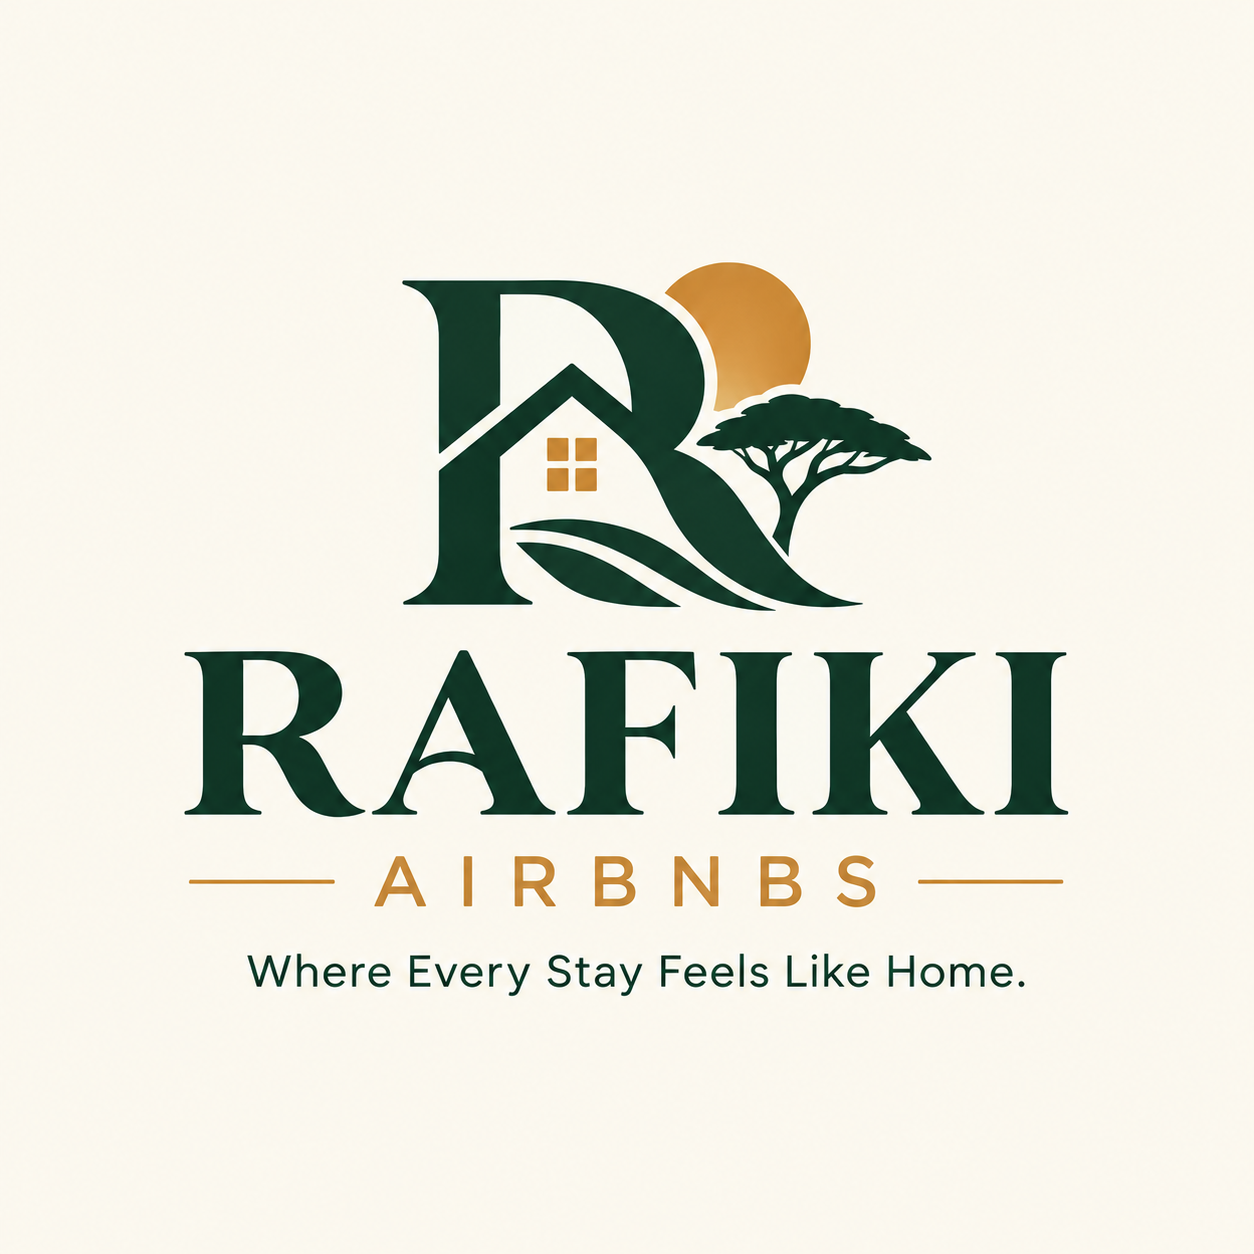
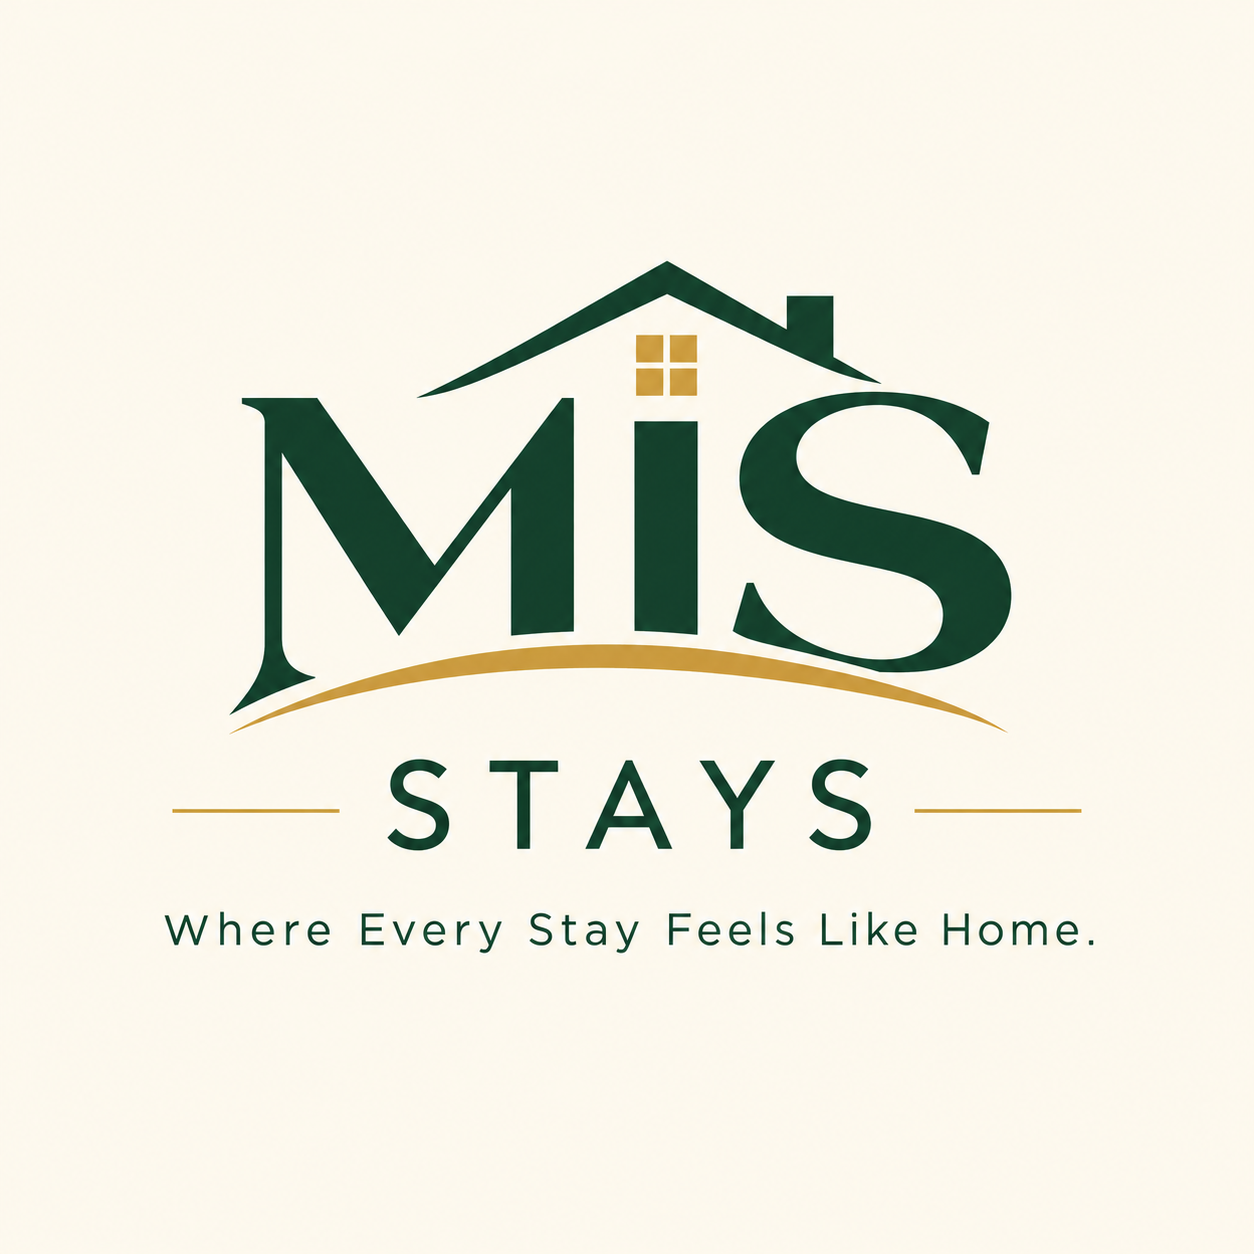
mis

Changed region(s): [[0.1244, 0.1866, 0.8708, 0.8086]]

diff --git a/index.html b/index.html
@@ -5,19 +5,19 @@
     <meta name="viewport" content="width=device-width, initial-scale=1.0" />
     <link rel="icon" href="/brand-assets/favicon.ico" sizes="any" />
     <link rel="apple-touch-icon" href="/brand-assets/apple-touch-icon.png" />
-    <title>Rafiki Airbnbs | Where Every Stay Feels Like Home</title>
-    <meta name="description" content="Discover beautifully curated short-stay homes in Kenya with Rafiki Airbnbs. Handpicked boutique residences in Nairobi for tourists, expats, and business travelers." />
-    <meta property="og:title" content="Rafiki Airbnbs | Where Every Stay Feels Like Home" />
-    <meta property="og:description" content="Discover beautifully curated short-stay homes in Kenya with Rafiki Airbnbs." />
-    <meta property="og:site_name" content="Rafiki Airbnbs" />
+    <title>MIS Stays | Where Every Stay Feels Like Home</title>
+    <meta name="description" content="Discover beautifully curated short-stay homes in Kenya with MIS Stays. Handpicked boutique residences in Nairobi for tourists, expats, and business travelers." />
+    <meta property="og:title" content="MIS Stays | Where Every Stay Feels Like Home" />
+    <meta property="og:description" content="Discover beautifully curated short-stay homes in Kenya with MIS Stays." />
+    <meta property="og:site_name" content="MIS Stays" />
     <meta property="og:type" content="website" />
     <meta property="og:image" content="/brand-assets/og-image.png" />
     <meta property="og:image:width" content="1200" />
     <meta property="og:image:height" content="630" />
-    <meta property="og:image:alt" content="Rafiki Airbnbs stays in Kenya" />
+    <meta property="og:image:alt" content="MIS Stays homes in Kenya" />
     <meta name="twitter:card" content="summary_large_image" />
-    <meta name="twitter:title" content="Rafiki Airbnbs | Where Every Stay Feels Like Home" />
-    <meta name="twitter:description" content="Discover beautifully curated short-stay homes in Kenya with Rafiki Airbnbs." />
+    <meta name="twitter:title" content="MIS Stays | Where Every Stay Feels Like Home" />
+    <meta name="twitter:description" content="Discover beautifully curated short-stay homes in Kenya with MIS Stays." />
     <meta name="twitter:image" content="/brand-assets/og-image.png" />
     <link rel="preconnect" href="https://fonts.googleapis.com" />
     <link rel="preconnect" href="https://fonts.gstatic.com" crossorigin />
@@ -26,8 +26,8 @@
       {
         "@context": "https://schema.org",
         "@type": "LodgingBusiness",
-        "name": "Rafiki Airbnbs",
-        "description": "Discover beautifully curated short-stay homes in Kenya with Rafiki Airbnbs.",
+        "name": "MIS Stays",
+        "description": "Discover beautifully curated short-stay homes in Kenya with MIS Stays.",
         "slogan": "Where Every Stay Feels Like Home.",
         "address": {
           "@type": "PostalAddress",

diff --git a/src/pages/BookingConfirmationPage.tsx b/src/pages/BookingConfirmationPage.tsx
@@ -130,7 +130,7 @@ export const BookingConfirmationPage: React.FC<{ bookingIdOrRef: string }> = ({
     confirmed: {
       title: 'Booking Confirmed',
       subtitle:
-        'Your stay with Rafiki Airbnbs is confirmed and your dates are reserved exclusively for you.',
+        'Your stay with MIS Stays is confirmed and your dates are reserved exclusively for you.',
       tone: 'text-[#15803D]',
       Icon: CheckCircle2,
     },
@@ -143,7 +143,7 @@ export const BookingConfirmationPage: React.FC<{ bookingIdOrRef: string }> = ({
     },
     completed: {
       title: 'Stay Completed',
-      subtitle: 'Thank you for staying with Rafiki Airbnbs. Karibu tena!',
+      subtitle: 'Thank you for staying with MIS Stays. Karibu tena!',
       tone: 'text-[#2C4C3E]',
       Icon: CheckCircle2,
     },
@@ -183,7 +183,7 @@ export const BookingConfirmationPage: React.FC<{ bookingIdOrRef: string }> = ({
           </p>
           <div className="flex flex-wrap justify-center gap-3 pt-2">
             <WhatsAppButton label="Chat on WhatsApp" variant="primary" />
-            <PhoneCallButton label="Call Rafiki Airbnbs" variant="outline" />
+            <PhoneCallButton label="Call MIS Stays" variant="outline" />
           </div>
         </div>
       ) : (
@@ -191,7 +191,7 @@ export const BookingConfirmationPage: React.FC<{ bookingIdOrRef: string }> = ({
           {searchParams.get('emailNotificationFailed') === '1' && (
             <div className="m-6 sm:m-8 mb-0 rounded-lg border border-[#B45309]/30 bg-[#FFFBEB] p-4 text-sm text-[#92400E]">
               Your booking was saved, but we could not send the confirmation emails. Save the
-              reference shown below and contact Rafiki Airbnbs if you need help.
+              reference shown below and contact MIS Stays if you need help.
             </div>
           )}
           <div className="bg-[#F2EFE9] border-b border-[#1A1D1B]/10 p-6 sm:p-8 space-y-3">
@@ -272,7 +272,7 @@ export const BookingConfirmationPage: React.FC<{ bookingIdOrRef: string }> = ({
                   )}
                 />
                 <PhoneCallButton
-                  label="Call Rafiki Airbnbs"
+                  label="Call MIS Stays"
                   showNumber
                   variant="outline"
                   size="lg"

diff --git a/src/context/RafikiContext.tsx b/src/context/RafikiContext.tsx
@@ -91,29 +91,29 @@ export const RafikiProvider: React.FC<{ children: React.ReactNode }> = ({ childr
 
   useEffect(() => {
     const path = locationState.pathname;
-    let pageTitle = 'Rafiki Airbnbs | Where Every Stay Feels Like Home';
-    let pageDescription = 'Discover beautifully curated short-stay homes in Kenya with Rafiki Airbnbs.';
+    let pageTitle = 'MIS Stays | Where Every Stay Feels Like Home';
+    let pageDescription = 'Discover beautifully curated short-stay homes in Kenya with MIS Stays.';
 
     if (path === '/stays') {
-      pageTitle = 'Curated Stays in Nairobi | Rafiki Airbnbs';
+      pageTitle = 'Curated Stays in Nairobi | MIS Stays';
       pageDescription = 'Browse handpicked short-stay apartments and garden residences in Kilimani, Kileleshwa, and Westlands, Nairobi.';
     } else if (path.startsWith('/stays/')) {
       const slug = path.replace('/stays/', '').split('/')[0];
       const prop = properties.find((p) => p.slug === slug);
       if (prop) {
-        pageTitle = `${prop.name} | Rafiki Airbnbs`;
-        pageDescription = `${prop.name} in ${prop.location}, ${prop.city}. Book directly with Rafiki Airbnbs.`;
+        pageTitle = `${prop.name} | MIS Stays`;
+        pageDescription = `${prop.name} in ${prop.location}, ${prop.city}. Book directly with MIS Stays.`;
       }
     } else if (path === '/destinations') {
-      pageTitle = 'Destinations in Kenya | Rafiki Airbnbs';
+      pageTitle = 'Destinations in Kenya | MIS Stays';
     } else if (path === '/about') {
-      pageTitle = 'Our Story & Hospitality | Rafiki Airbnbs';
+      pageTitle = 'Our Story & Hospitality | MIS Stays';
     } else if (path === '/contact') {
-      pageTitle = 'Contact Us on WhatsApp or Phone | Rafiki Airbnbs';
+      pageTitle = 'Contact Us on WhatsApp or Phone | MIS Stays';
     } else if (path.startsWith('/booking/')) {
-      pageTitle = 'Booking Request Status | Rafiki Airbnbs';
+      pageTitle = 'Booking Request Status | MIS Stays';
     } else if (path.startsWith('/admin')) {
-      pageTitle = 'Admin Hospitality Console | Rafiki Airbnbs';
+      pageTitle = 'Admin Hospitality Console | MIS Stays';
     }
 
     document.title = pageTitle;

diff --git a/src/lib/whatsapp/index.ts b/src/lib/whatsapp/index.ts
@@ -38,13 +38,13 @@ export function buildWhatsAppUrl(rawNumber: string, message?: string): string {
 
 export const WhatsAppMessages = {
   generalInquiry: () =>
-    `Hello Rafiki Airbnbs, I would like to inquire about your short-stay residences in Kenya.`,
+    `Hello MIS Stays, I would like to inquire about your short-stay residences in Kenya.`,
 
   propertyInquiry: (propertyName: string, checkIn?: string, checkOut?: string) => {
     if (checkIn && checkOut) {
-      return `Hello Rafiki Airbnbs, I'm interested in booking ${propertyName} from ${checkIn} to ${checkOut}.`;
+      return `Hello MIS Stays, I'm interested in booking ${propertyName} from ${checkIn} to ${checkOut}.`;
     }
-    return `Hello Rafiki Airbnbs, I'm interested in booking ${propertyName}.`;
+    return `Hello MIS Stays, I'm interested in booking ${propertyName}.`;
   },
 
   guestBookingConfirmation: (
@@ -55,7 +55,7 @@ export const WhatsAppMessages = {
     referenceNumber?: string
   ) => {
     const refSuffix = referenceNumber ? ` (Reference: ${referenceNumber})` : '';
-    return `Hello Rafiki Airbnbs, I have submitted a booking request for ${propertyName} from ${checkIn} to ${checkOut}. My name is ${guestName}.${refSuffix}`;
+    return `Hello MIS Stays, I have submitted a booking request for ${propertyName} from ${checkIn} to ${checkOut}. My name is ${guestName}.${refSuffix}`;
   },
 
   adminToGuestReply: (
@@ -67,6 +67,6 @@ export const WhatsAppMessages = {
   ) => {
     const firstName = guestFullName.trim().split(/\s+/)[0] || guestFullName;
     const refPart = referenceNumber ? ` (Ref: ${referenceNumber})` : '';
-    return `Hello ${firstName}, this is Rafiki Airbnbs regarding your booking request for ${propertyName} from ${checkInFormatted} to ${checkOutFormatted}${refPart}.`;
+    return `Hello ${firstName}, this is MIS Stays regarding your booking request for ${propertyName} from ${checkInFormatted} to ${checkOutFormatted}${refPart}.`;
   },
 };

diff --git a/src/pages/HomePage.tsx b/src/pages/HomePage.tsx
@@ -48,7 +48,7 @@ export const HomePage: React.FC = () => {
               <ResilientImage
                 src="https://images.unsplash.com/photo-1545324418-cc1a3fa10c00?auto=format&fit=crop&w=2000&q=85"
                 alt="Sunlit luxury living room at Rafiki Heights in Kilimani, Nairobi"
-                fallbackLabel="Rafiki Airbnbs · Kenya"
+                fallbackLabel="MIS Stays · Kenya"
                 priority
                 className="w-full h-full object-cover"
               />
@@ -144,7 +144,7 @@ export const HomePage: React.FC = () => {
                 Nairobi’s most welcoming neighborhoods
               </h2>
               <p className="text-base text-[#5C5F58]">
-                Every home in the Rafiki Airbnbs collection is chosen for walkable greenery, 24-hour security, and
+                Every home in the MIS Stays collection is chosen for walkable greenery, 24-hour security, and
                 proximity to Nairobi’s dining, diplomatic, and safari links.
               </p>
             </div>
@@ -218,7 +218,7 @@ export const HomePage: React.FC = () => {
           <div className="lg:col-span-5 space-y-8">
             <div className="space-y-3">
               <p className="text-xs font-medium text-[#2C4C3E]">
-                Why Guests Choose Rafiki Airbnbs
+                Why Guests Choose MIS Stays
               </p>
               <h2 className="font-serif text-3xl sm:text-4xl font-semibold text-[#1A1D1B] tracking-tight">
                 Personal Kenyan hospitality, not an anonymous lockbox.

diff --git a/src/pages/admin/AdminDashboardPage.tsx b/src/pages/admin/AdminDashboardPage.tsx
@@ -348,7 +348,7 @@ export const AdminDashboardPage: React.FC<{ initialSubRoute?: string }> = ({
   if (loading) {
     return (
       <div className="min-h-screen bg-[#FBF9F5] p-8 flex items-center justify-center">
-        <p className="text-sm text-[#5C5F58]">Loading Rafiki Airbnbs Admin Console...</p>
+        <p className="text-sm text-[#5C5F58]">Loading MIS Stays Admin Console...</p>
       </div>
     );
   }
@@ -386,7 +386,7 @@ export const AdminDashboardPage: React.FC<{ initialSubRoute?: string }> = ({
               }}
               className="font-serif text-2xl font-semibold tracking-tight text-white"
             >
-              Rafiki Airbnbs
+              MIS Stays
             </a>
             <span className="text-[11px] font-mono-num text-[#B89758]">Admin</span>
           </div>
@@ -448,7 +448,7 @@ export const AdminDashboardPage: React.FC<{ initialSubRoute?: string }> = ({
       <div className="flex-1 flex flex-col min-w-0">
         <header className="h-16 px-6 border-b border-[#1A1D1B]/10 bg-[#FBF9F5] flex items-center justify-between gap-4">
           <div className="flex items-center gap-2 text-xs text-[#5C5F58]">
-            <span>Rafiki Airbnbs</span>
+            <span>MIS Stays</span>
             <span>/</span>
             <strong className="text-[#1A1D1B] capitalize">{activeTab}</strong>
           </div>

diff --git a/src/pages/ContactPage.tsx b/src/pages/ContactPage.tsx
@@ -19,7 +19,7 @@ export const ContactPage: React.FC = () => {
   const telHref = normalizeTelLink(settings.phone_number || settings.whatsapp_number);
 
   const composedWhatsAppText = [
-    `Hello Rafiki Airbnbs, my name is ${guestName || 'a prospective guest'}.`,
+    `Hello MIS Stays, my name is ${guestName || 'a prospective guest'}.`,
     selectedProperty !== 'General Inquiry'
       ? `I'm inquiring about ${selectedProperty}.`
       : `I would like to inquire about your short-stay residences in Nairobi.`,
@@ -66,7 +66,7 @@ export const ContactPage: React.FC = () => {
               International Format: +{settings.whatsapp_number}
             </p>
             <WhatsAppButton
-              label="Chat with Rafiki Airbnbs"
+              label="Chat with MIS Stays"
               variant="primary"
               size="md"
               className="w-full"
@@ -89,7 +89,7 @@ export const ContactPage: React.FC = () => {
               </a>
             </p>
             <PhoneCallButton
-              label="Call Rafiki Airbnbs"
+              label="Call MIS Stays"
               variant="outline"
               size="md"
               className="w-full"

diff --git a/src/components/ui/ContactButtons.tsx b/src/components/ui/ContactButtons.tsx
@@ -20,7 +20,7 @@ interface WhatsAppButtonProps {
 export const WhatsAppButton: React.FC<WhatsAppButtonProps> = ({
   message,
   phoneOverride,
-  label = 'Chat with Rafiki Airbnbs',
+  label = 'Chat with MIS Stays',
   variant = 'primary',
   className = '',
   size = 'md',
@@ -71,7 +71,7 @@ interface PhoneCallButtonProps {
 
 export const PhoneCallButton: React.FC<PhoneCallButtonProps> = ({
   phoneOverride,
-  label = 'Call Rafiki Airbnbs',
+  label = 'Call MIS Stays',
   showNumber = false,
   variant = 'outline',
   className = '',
@@ -118,7 +118,7 @@ export const FloatingMobileWhatsApp: React.FC = () => {
         href={href}
         target="_blank"
         rel="noopener noreferrer"
-        aria-label="Chat with Rafiki Airbnbs on WhatsApp"
+        aria-label="Chat with MIS Stays on WhatsApp"
         className="inline-flex items-center gap-2 px-4 py-2.5 rounded-full bg-[#2C4C3E] text-white text-xs font-medium shadow-md hover:bg-[#223B30] transition-transform duration-150 active:scale-95"
       >
         <MessageCircle className="w-4 h-4" />

diff --git a/src/pages/AboutPage.tsx b/src/pages/AboutPage.tsx
@@ -13,13 +13,13 @@ export const AboutPage: React.FC = () => {
       <div className="grid grid-cols-1 lg:grid-cols-12 gap-12 items-center">
         <div className="lg:col-span-6 space-y-6">
           <p className="text-xs font-medium text-[#2C4C3E]">
-            Our Story · Karibu Rafiki Airbnbs
+            Our Story · Karibu MIS Stays
           </p>
           <h1 className="font-serif text-4xl sm:text-5xl lg:text-[54px] font-semibold text-[#1A1D1B] leading-[1.1] tracking-tight">
             &ldquo;Rafiki&rdquo; means friend in Swahili.
           </h1>
           <p className="text-base sm:text-lg text-[#363935] leading-relaxed">
-            Rafiki Airbnbs was founded with a simple conviction: arriving in Kenya—whether for a
+            MIS Stays was founded with a simple conviction: arriving in Kenya—whether for a
             once-in-a-lifetime safari, an international relocation, or a week of executive
             meetings—should feel like being welcomed into the home of a trusted local friend.
           </p>

diff --git a/src/components/layout/Footer.tsx b/src/components/layout/Footer.tsx
@@ -32,7 +32,7 @@ export const Footer: React.FC = () => {
               onClick={(e) => handleLink(e, '/')}
               className="font-serif text-3xl font-semibold tracking-tight text-[#FBF9F5] inline-block"
             >
-              Rafiki Airbnbs
+              MIS Stays
             </a>
             <p className="text-sm text-[#D6D3CD] max-w-sm leading-relaxed tracking-wide">
               &ldquo;Rafiki&rdquo; means friend in Swahili. We offer a small, thoughtfully managed
@@ -162,7 +162,7 @@ export const Footer: React.FC = () => {
         </div>
 
         <div className="pt-8 flex flex-col sm:flex-row items-start sm:items-center justify-between gap-4 text-xs text-[#9E9B95]">
-          <p>© {new Date().getFullYear()} Rafiki Airbnbs. Nairobi, Kenya. All rights reserved.</p>
+          <p>© {new Date().getFullYear()} MIS Stays. Nairobi, Kenya. All rights reserved.</p>
           <p>Personal WhatsApp &amp; phone confirmation for every stay.</p>
         </div>
       </div>

diff --git a/src/components/layout/Navbar.tsx b/src/components/layout/Navbar.tsx
@@ -30,7 +30,7 @@ export const Navbar: React.FC = () => {
           onClick={(e) => handleNav(e, '/')}
           className="font-serif text-2xl sm:text-[28px] font-semibold tracking-tight text-[#1A1D1B] whitespace-nowrap shrink-0"
         >
-          Rafiki Airbnbs
+          MIS Stays
         </a>
 
         <nav
@@ -104,7 +104,7 @@ export const Navbar: React.FC = () => {
           </nav>
           <div className="pt-2 border-t border-[#1A1D1B]/8">
             <WhatsAppButton
-              label="Chat with Rafiki Airbnbs"
+              label="Chat with MIS Stays"
               size="md"
               variant="primary"
               className="w-full"

diff --git a/src/lib/supabase/seed-data.ts b/src/lib/supabase/seed-data.ts
@@ -420,7 +420,7 @@ export const INITIAL_REVIEWS: Review[] = [
     guest_origin: 'Lagos & London · 5-night stay',
     rating: 5,
     comment:
-      'Thoughtful hospitality from start to finish. Instead of an impersonal lockbox experience, Rafiki Airbnbs checked in on us via WhatsApp and arranged a late check-out before our evening flight.',
+      'Thoughtful hospitality from start to finish. Instead of an impersonal lockbox experience, MIS Stays checked in on us via WhatsApp and arranged a late check-out before our evening flight.',
     stay_date: 'September 2026',
     published: true,
     created_at: '2026-09-14T16:45:00Z',
